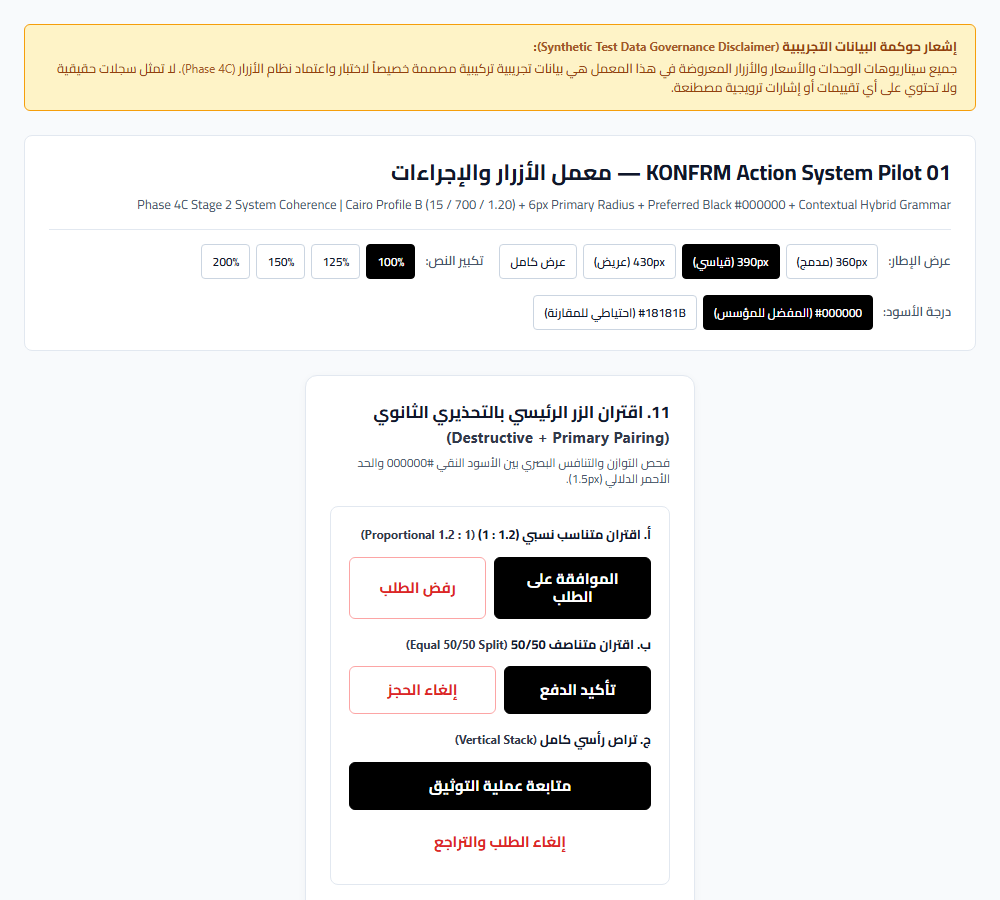
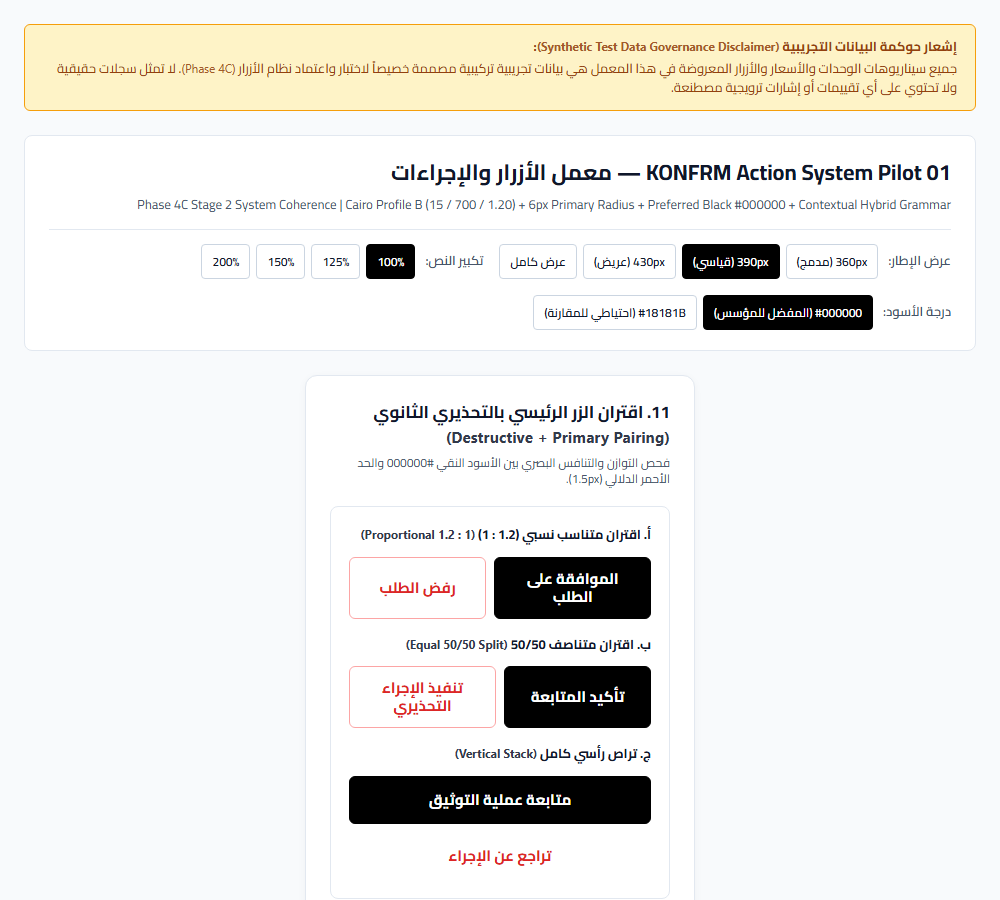
docs(design): remove unsupported photography claim and cancellation policy leakage
Residual governance patch for Stage 2:
- Replace unsupported property photography claim in index.html with evidence-bounded customer surface wording
- Neutralize policy-sensitive destructive button labels to avoid implying unapproved cancellation capabilities
- Recapture pure_black_coherence_roles.png and hybrid_destructive_primary_pairing.png screenshots
- Preserve open cancellation/refund policy and Stage 2 provisional decisions

Changed region(s): [[0.341, 0.7467, 0.651, 0.9644], [0.341, 0.9956, 0.682, 1.0]]

diff --git a/DESIGN_SYSTEM/PILOTS/action-system-pilot-01/index.html b/DESIGN_SYSTEM/PILOTS/action-system-pilot-01/index.html
@@ -602,8 +602,8 @@
         <div class="card-box">
           <div class="card-title">الاقتران الأفقي المزدوج <span class="en-tag" dir="ltr">(Side-by-Side 50/50)</span></div>
           <div style="display: flex; gap: 10px; margin-bottom: 16px;">
-            <button class="kf-btn kf-btn-primary" style="flex: 1;">تأكيد الحجز</button>
-            <button class="kf-btn kf-btn-secondary-fill" style="flex: 1;">إلغاء</button>
+            <button class="kf-btn kf-btn-primary" style="flex: 1;">تأكيد الطلب</button>
+            <button class="kf-btn kf-btn-secondary-fill" style="flex: 1;">تراجع</button>
           </div>
 
           <div class="card-title">التراص الرأسي الكامل <span class="en-tag" dir="ltr">(Vertical Stacking)</span></div>
@@ -625,7 +625,7 @@
           <div style="display: flex; flex-direction: column; gap: 12px;">
             <div>
               <span style="font-size: 11px; color: var(--kf-color-text-secondary); display: block; margin-bottom: 4px;">إجراء حذر رئيسي <span class="en-tag" dir="ltr">(Critical Confirmation)</span>:</span>
-              <button class="kf-btn kf-btn-danger-primary kf-btn-full">تأكيد إلغاء الحجز نهائياً</button>
+              <button class="kf-btn kf-btn-danger-primary kf-btn-full">تأكيد الإجراء الحذر</button>
             </div>
             <div>
               <span style="font-size: 11px; color: var(--kf-color-text-secondary); display: block; margin-bottom: 4px;">إجراء حذر ثانوي <span class="en-tag" dir="ltr">(Optional Rejection in Queue)</span>:</span>
@@ -910,14 +910,14 @@
 
           <div class="card-title">ب. اقتران متناصف 50/50 <span class="en-tag" dir="ltr">(Equal 50/50 Split)</span></div>
           <div style="display: flex; gap: 8px; margin-bottom: 16px;">
-            <button class="kf-btn kf-btn-primary" style="flex: 1;">تأكيد الدفع</button>
-            <button class="kf-btn kf-btn-danger-outline" style="flex: 1;">إلغاء الحجز</button>
+            <button class="kf-btn kf-btn-primary" style="flex: 1;">تأكيد المتابعة</button>
+            <button class="kf-btn kf-btn-danger-outline" style="flex: 1;">تنفيذ الإجراء التحذيري</button>
           </div>
 
           <div class="card-title">ج. تراص رأسي كامل <span class="en-tag" dir="ltr">(Vertical Stack)</span></div>
           <div style="display: flex; flex-direction: column; gap: 8px;">
             <button class="kf-btn kf-btn-primary kf-btn-full">متابعة عملية التوثيق</button>
-            <button class="kf-btn kf-btn-danger-ghost kf-btn-full">إلغاء الطلب والتراجع</button>
+            <button class="kf-btn kf-btn-danger-ghost kf-btn-full">تراجع عن الإجراء</button>
           </div>
         </div>
       </section>
@@ -974,7 +974,7 @@
           <div class="card-box" style="margin-bottom: 0;">
             <div style="font-weight: 700; font-size: 13px; margin-bottom: 4px;">سياق العميل (Customer Hospitality):</div>
             <p style="font-size: 12px; color: var(--kf-color-text-secondary); margin-bottom: 10px;">
-              الأسود النقي يوفر دعوة حاسمة وواضحة للإجراء بدون منافسة بصرية مع صور العقار:
+              الأسود النقي يوفر دعوة حاسمة وواضحة للإجراء، ولم يُرصد أي تعارض مادي في الهيمنة البصرية على أسطح حجز العميل المختبرة:
             </p>
             <div class="sticky-bar-mockup">
               <div class="price-cluster">
